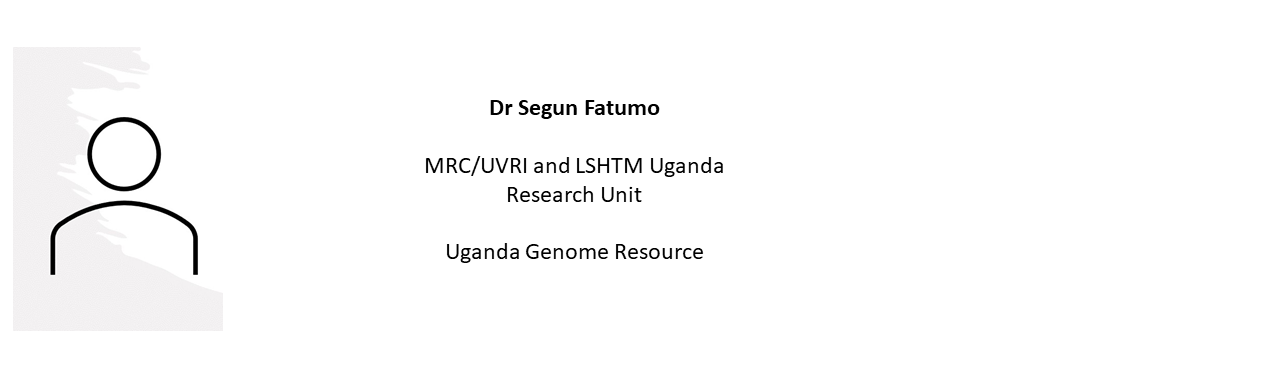
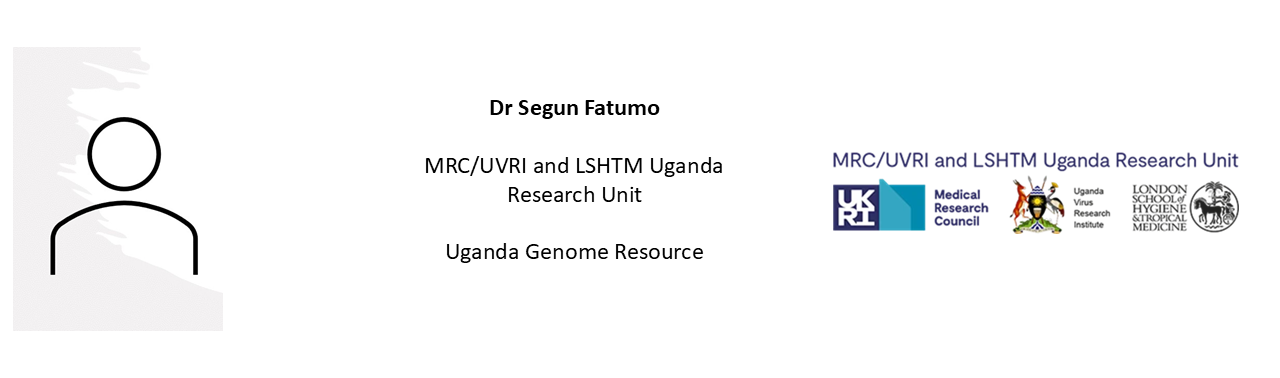
Deployed e0f5e07 with MkDocs version: 1.5.2

diff --git a/Our_Network/index.html b/Our_Network/index.html
@@ -867,8 +867,8 @@
 <a href="https://www.genome.gov/about-nhgri/Division-of-Intramural-Research/Center-for-Precision-Health-Research/" target="_blank">
 <img src="https://github.com/hannah-e/DEEP_site/blob/gh-pages/assets/Li_NHGRI.png?raw=true">
 </a>
-<a href="https://www.linkedin.com/in/lillian-linda/" target="_blank">
-<img src="https://github.com/hannah-e/DEEP_site/blob/gh-pages/assets/Lillian_Linda.png?raw=true">
+<a href="https://www.genomicdiversity.org/about-us/team---phd-students-and-interns/lillian-linda/?Page_ID=211645&id=1154448/" target="_blank">
+<img src="https://github.com/hannah-e/DEEP_site/blob/gh-pages/assets/Linda_MRCUVRI.png?raw=true">
 </a>
 <a href="https://lab.vanderbilt.edu/microbiome/person/jironglong/" target="_blank">
 <img src="https://github.com/hannah-e/DEEP_site/blob/gh-pages/assets/Long_vanderbilt.png?raw=true">
